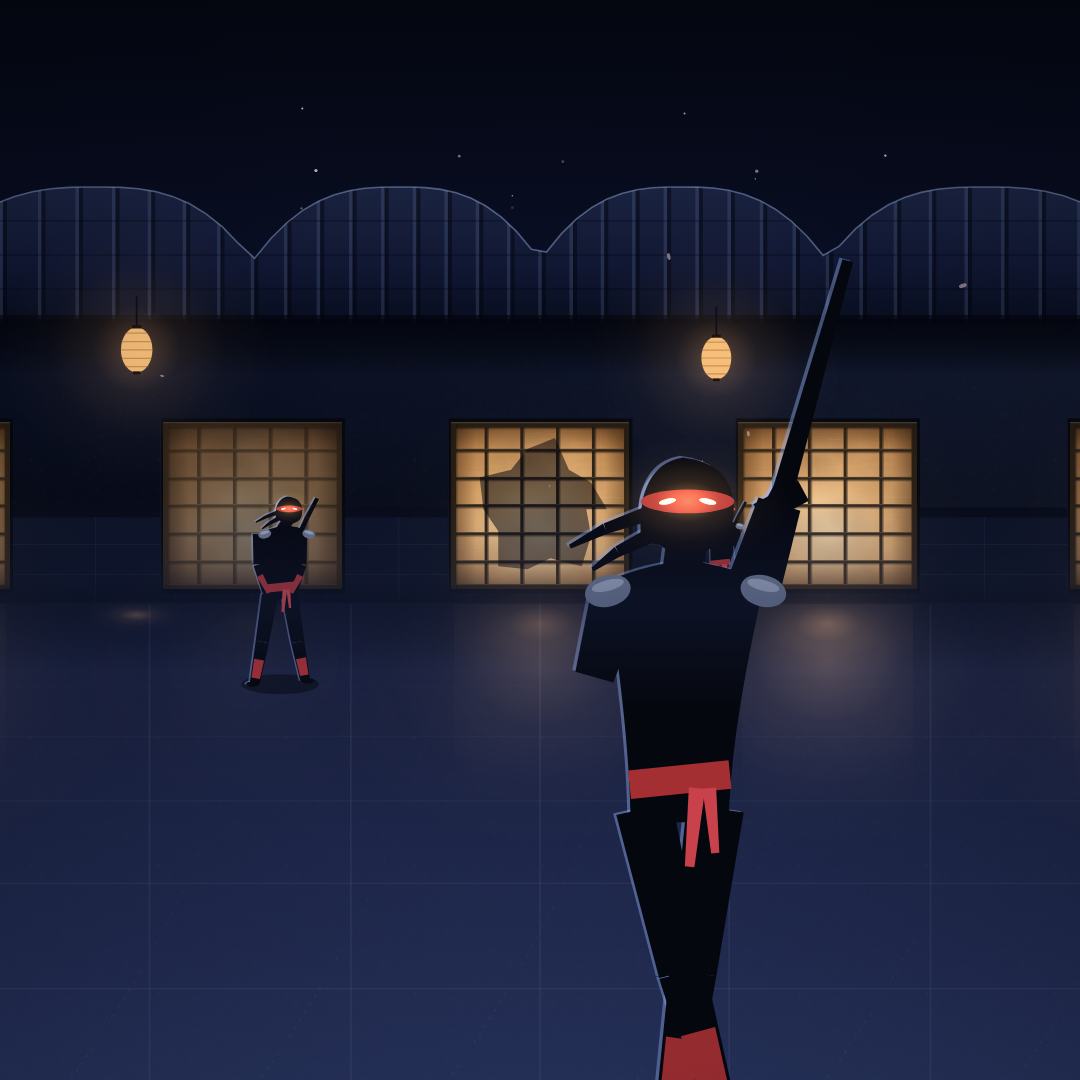
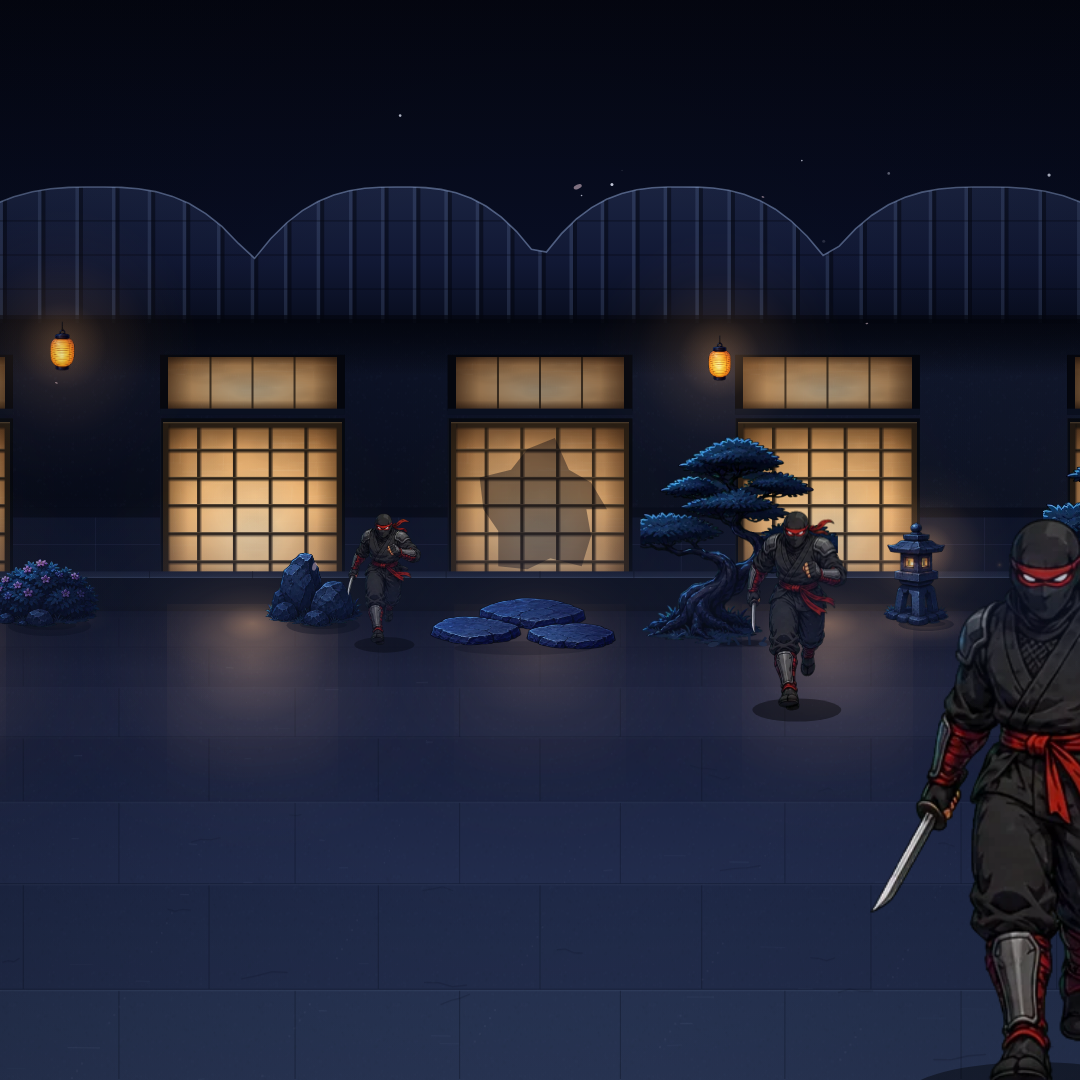
Regenerate Shuriken Night card + OG for the current courtyard
Both share images predated a run of visual work — the character kit,
Sergeant, rooftop entry, hit reactions and the courtyard architecture — so
they showed an older, plainer scene than the game does.

New card is a real still: three ninjas at receding depths crossing the
garden past the pine, stone lantern and stepping stones, with the lit
transom band over the screens. Picked a calmer frame over a Sergeant
mid-slash, because the crossing blade arcs would read as glitches once
shrunk into the card band. The OG template pulls the card in as its motif,
so it followed automatically.

Cache-busted so scrapers and returning visitors get them: og:image and
twitter:image to ?v=4, the card URL in assets/styles.css to ?v=4, and the
hub stylesheet 93 to 94 across all eight pages.

Verified in the live gallery: card renders on the busted URL, no failed
image requests, 0 console errors.

diff --git a/toys/shuriken-night/index.html b/toys/shuriken-night/index.html
@@ -23,7 +23,7 @@
     <meta property="og:title" content="Shuriken Night — One Page Toys" />
     <meta property="og:description" content="Hold a moonlit castle courtyard. Throw ninja stars, deflect incoming blades, and survive wave after wave of shadows." />
     <meta property="og:url" content="https://onepagetoys.com/toys/shuriken-night/" />
-    <meta property="og:image" content="https://onepagetoys.com/assets/og/shuriken-night.png?v=3" />
+    <meta property="og:image" content="https://onepagetoys.com/assets/og/shuriken-night.png?v=4" />
     <meta property="og:image:width" content="1200" />
     <meta property="og:image:height" content="630" />
     <meta property="og:image:type" content="image/png" />
@@ -31,7 +31,7 @@
     <meta name="twitter:card" content="summary_large_image" />
     <meta name="twitter:title" content="Shuriken Night — One Page Toys" />
     <meta name="twitter:description" content="Throw ninja stars, deflect incoming blades, and hold the moonlit courtyard through the night." />
-    <meta name="twitter:image" content="https://onepagetoys.com/assets/og/shuriken-night.png?v=3" />
+    <meta name="twitter:image" content="https://onepagetoys.com/assets/og/shuriken-night.png?v=4" />
     <script type="application/ld+json">
       {
         "@context": "https://schema.org",

diff --git a/all-toys/audio/index.html b/all-toys/audio/index.html
@@ -64,7 +64,7 @@
         } catch (e) {}
       })();
     </script>
-    <link rel="stylesheet" href="../../assets/styles.css?v=93" />
+    <link rel="stylesheet" href="../../assets/styles.css?v=94" />
   </head>
   <body data-gallery-mode="all" data-cat="audio">
     <a class="skip-link" href="#main-content">Skip to content</a>

diff --git a/all-toys/game/index.html b/all-toys/game/index.html
@@ -64,7 +64,7 @@
         } catch (e) {}
       })();
     </script>
-    <link rel="stylesheet" href="../../assets/styles.css?v=93" />
+    <link rel="stylesheet" href="../../assets/styles.css?v=94" />
   </head>
   <body data-gallery-mode="all" data-cat="game">
     <a class="skip-link" href="#main-content">Skip to content</a>

diff --git a/all-toys/index.html b/all-toys/index.html
@@ -64,7 +64,7 @@
         } catch (e) {}
       })();
     </script>
-    <link rel="stylesheet" href="../assets/styles.css?v=93" />
+    <link rel="stylesheet" href="../assets/styles.css?v=94" />
   </head>
   <body data-gallery-mode="all">
     <a class="skip-link" href="#main-content">Skip to content</a>

diff --git a/all-toys/simulation/index.html b/all-toys/simulation/index.html
@@ -64,7 +64,7 @@
         } catch (e) {}
       })();
     </script>
-    <link rel="stylesheet" href="../../assets/styles.css?v=93" />
+    <link rel="stylesheet" href="../../assets/styles.css?v=94" />
   </head>
   <body data-gallery-mode="all" data-cat="simulation">
     <a class="skip-link" href="#main-content">Skip to content</a>

diff --git a/all-toys/utility/index.html b/all-toys/utility/index.html
@@ -64,7 +64,7 @@
         } catch (e) {}
       })();
     </script>
-    <link rel="stylesheet" href="../../assets/styles.css?v=93" />
+    <link rel="stylesheet" href="../../assets/styles.css?v=94" />
   </head>
   <body data-gallery-mode="all" data-cat="utility">
     <a class="skip-link" href="#main-content">Skip to content</a>

diff --git a/all-toys/visual/index.html b/all-toys/visual/index.html
@@ -64,7 +64,7 @@
         } catch (e) {}
       })();
     </script>
-    <link rel="stylesheet" href="../../assets/styles.css?v=93" />
+    <link rel="stylesheet" href="../../assets/styles.css?v=94" />
   </head>
   <body data-gallery-mode="all" data-cat="visual">
     <a class="skip-link" href="#main-content">Skip to content</a>

diff --git a/all-toys/wellness/index.html b/all-toys/wellness/index.html
@@ -64,7 +64,7 @@
         } catch (e) {}
       })();
     </script>
-    <link rel="stylesheet" href="../../assets/styles.css?v=93" />
+    <link rel="stylesheet" href="../../assets/styles.css?v=94" />
   </head>
   <body data-gallery-mode="all" data-cat="wellness">
     <a class="skip-link" href="#main-content">Skip to content</a>

diff --git a/assets/styles.css b/assets/styles.css
@@ -1003,7 +1003,7 @@ code, kbd{ font-family: var(--font-mono); font-size: 0.9em; }
 .card__preview[data-slug="stained-glass"]{ background: #07060e url("cards/stained-glass.png") center / cover no-repeat; }
 .card__preview[data-slug="trail-game"]{ background: #14171f url("cards/trail-game.png") center / cover no-repeat; }
 .card__preview[data-slug="spelling-blocks"]{ background: #eceef1 url("cards/spelling-blocks.png") center / cover no-repeat; }
-.card__preview[data-slug="shuriken-night"]{ background: #0d1330 url("cards/shuriken-night.png?v=3") center / cover no-repeat; }
+.card__preview[data-slug="shuriken-night"]{ background: #0d1330 url("cards/shuriken-night.png?v=4") center / cover no-repeat; }
 
 /* Default — clean neutral preview for any future toy */
 .card__preview:not([data-slug="meeting-cost-meter"]):not([data-slug="goo-cursor"]):not([data-slug="breathing-pacer"]):not([data-slug="coin-flipper"]):not([data-slug="dice-roller"]):not([data-slug="magic-eight-ball"]):not([data-slug="blob-choir"]):not([data-slug="tic-tac-toe"]):not([data-slug="rock-paper-scissors"]):not([data-slug="three-doors"]):not([data-slug="memory-match"]):not([data-slug="snake-mini"]):not([data-slug="weird-generative-canvas"]):not([data-slug="star-click-sky"]):not([data-slug="tiny-idle-garden"]):not([data-slug="echo"]):not([data-slug="chimp-test"]):not([data-slug="beat-maker"]):not([data-slug="falling-sand"]):not([data-slug="lava-lamp"]):not([data-slug="bubble-wrap"]):not([data-slug="newtons-cradle"]):not([data-slug="spirograph"]):not([data-slug="plasma-ball"]):not([data-slug="kaleidoscope"]):not([data-slug="ripple-pond"]):not([data-slug="wind-chimes"]):not([data-slug="marble-drop"]):not([data-slug="zen-sand-garden"]):not([data-slug="floating-lanterns"]):not([data-slug="aurora-drift"]):not([data-slug="campfire"]):not([data-slug="fireworks"]):not([data-slug="rain-window"]):not([data-slug="perfect-circle"]):not([data-slug="pin-art"]):not([data-slug="chladni-plate"]):not([data-slug="pottery-wheel"]):not([data-slug="aurebesh-translator"]):not([data-slug="double-pendulum"]):not([data-slug="cloth"]):not([data-slug="gravity-orbits"]):not([data-slug="wooly-willy"]):not([data-slug="slide-puzzle"]):not([data-slug="jigsaw-puzzle"]):not([data-slug="kalimba"]):not([data-slug="tongue-drum"]):not([data-slug="time-is-money"]):not([data-slug="life-in-numbers"]):not([data-slug="latte-factor"]):not([data-slug="sleep-cycle"]):not([data-slug="countdown"]):not([data-slug="slice-it"]):not([data-slug="solitaire"]):not([data-slug="blackjack"]):not([data-slug="stack-tower"]):not([data-slug="music-box"]):not([data-slug="theremin"]):not([data-slug="mini-golf"]):not([data-slug="murmuration"]):not([data-slug="trio"]):not([data-slug="coin-pusher"]):not([data-slug="random-maze"]):not([data-slug="nova-coil"]):not([data-slug="paper-plane"]):not([data-slug="dot-loop"]):not([data-slug="vapor"]):not([data-slug="deep-descent"]):not([data-slug="puffling"]):not([data-slug="marble-machine"]):not([data-slug="rain-stick"]):not([data-slug="sky-fortress"]):not([data-slug="alpenglow"]):not([data-slug="tip-splitter"]):not([data-slug="pomodoro"]):not([data-slug="world-clock"]):not([data-slug="pool"]):not([data-slug="minesweeper"]):not([data-slug="mandelbrot"]):not([data-slug="slime-mold"]):not([data-slug="particle-life"]):not([data-slug="flow-field"]):not([data-slug="reaction-diffusion"]):not([data-slug="ink-marbling"]):not([data-slug="stained-glass"]):not([data-slug="trail-game"]):not([data-slug="spelling-blocks"]):not([data-slug="shuriken-night"]){

diff --git a/index.html b/index.html
@@ -60,7 +60,7 @@
         } catch (e) {}
       })();
     </script>
-    <link rel="stylesheet" href="assets/styles.css?v=93" />
+    <link rel="stylesheet" href="assets/styles.css?v=94" />
   </head>
   <body data-gallery-mode="home">
     <a class="skip-link" href="#main-content">Skip to content</a>